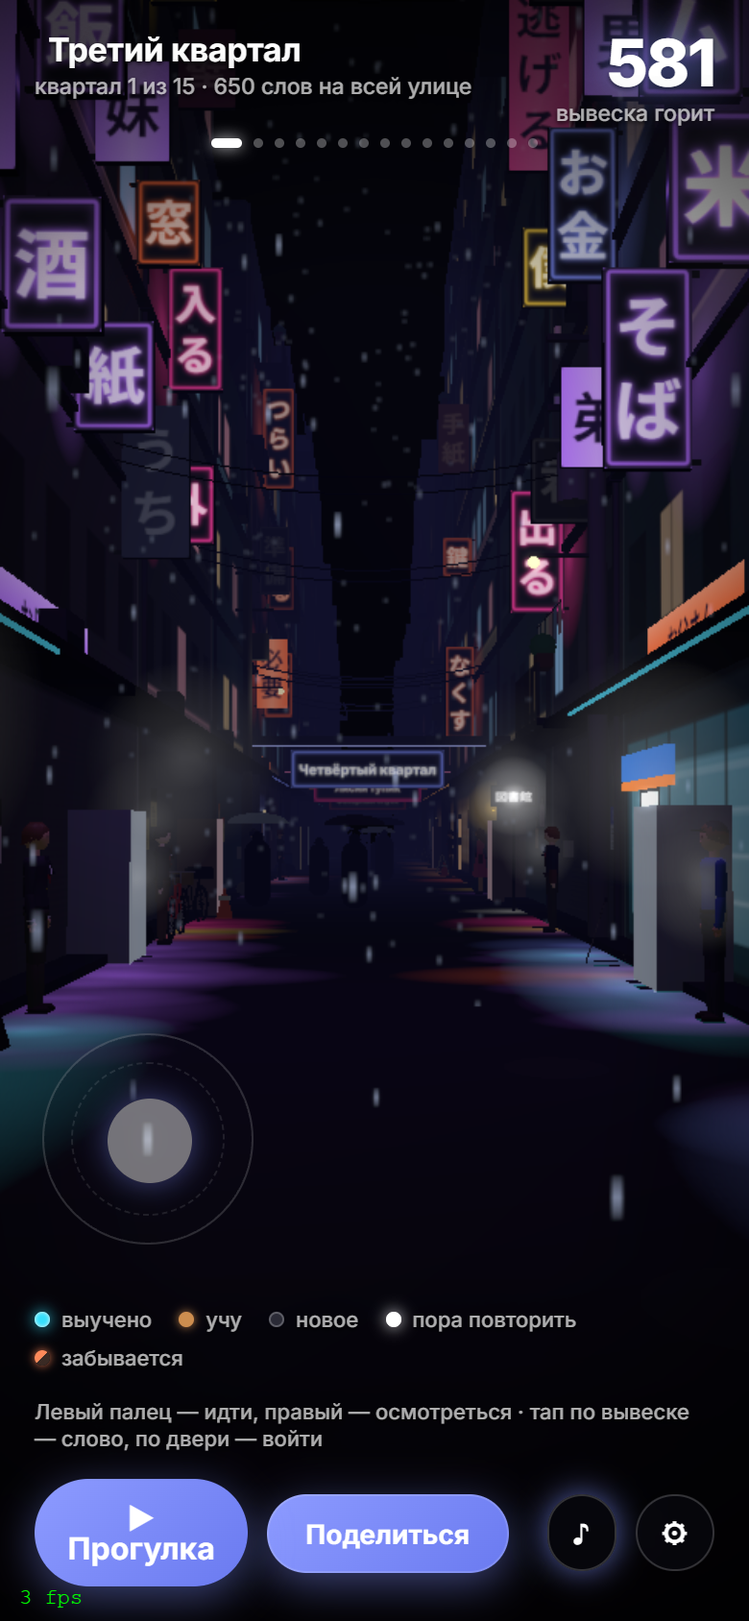
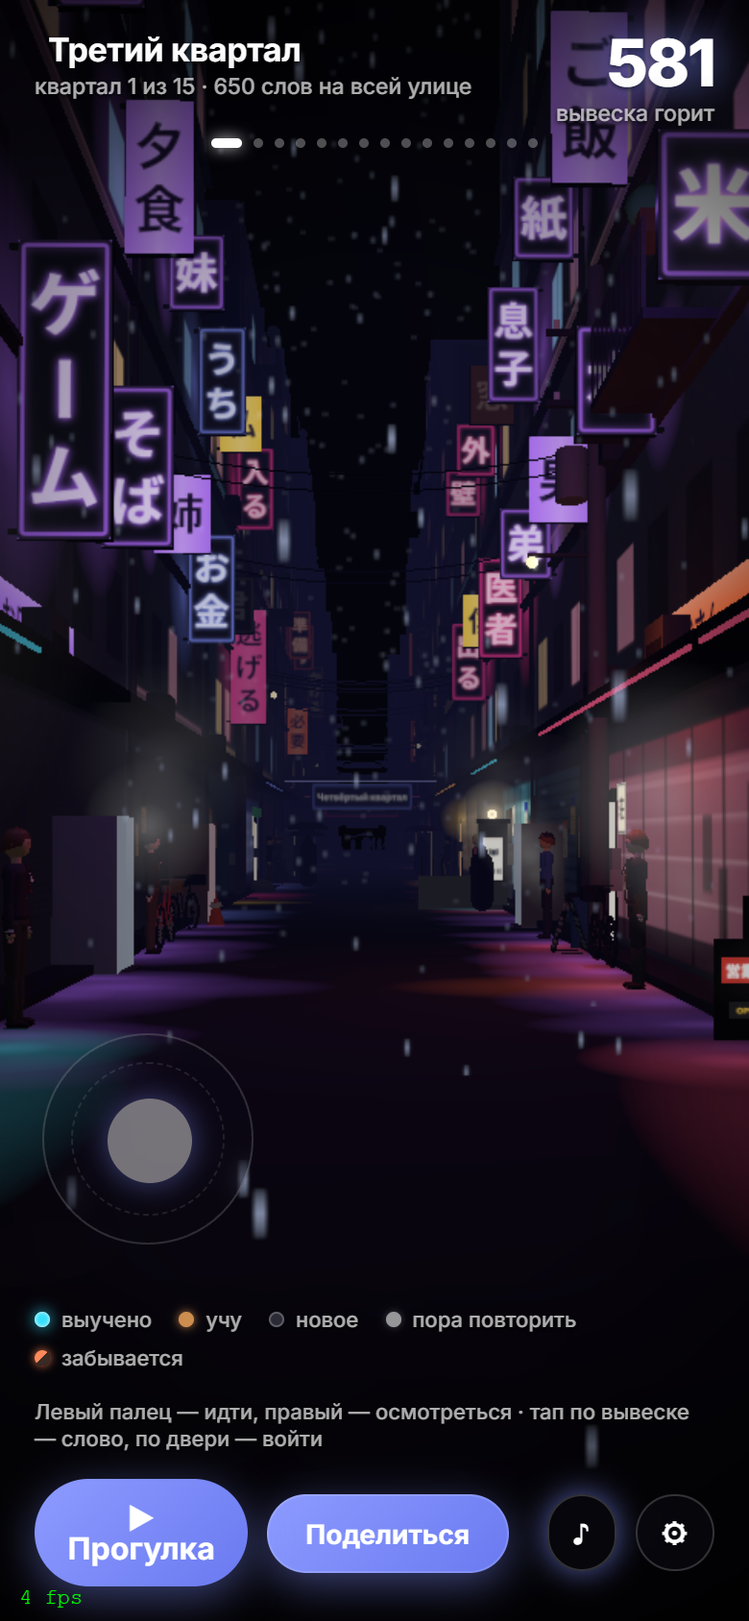
Улица слов на проде: карточка в «Приложениях», слова пользователя, без кнопки прогулки
- /app/street/walk.html: по умолчанию «Мои слова» из этого браузера
  (тот же origin, что и приложение); выгрузка личного словаря грузится
  только при открытии с диска; кнопка ✕ — назад в «Приложения».
- Убраны кнопка «Прогулка», счётчик «вывесок горит» и «прогулка» из названий.
- Карточка «Улица слов» на странице «Приложения» (ru/uk/en), v0.0.631.

diff --git a/street/walk.html b/street/walk.html
@@ -3,7 +3,7 @@
 <head>
     <meta charset="utf-8">
     <meta name="viewport" content="width=device-width, initial-scale=1.0, maximum-scale=1.0, user-scalable=no, viewport-fit=cover">
-    <title>Прогулка — Улица слов · Animei</title>
+    <title>Улица слов · Animei</title>
     <meta name="theme-color" content="#05050a">
     <meta name="apple-mobile-web-app-capable" content="yes">
     <link rel="preconnect" href="https://fonts.googleapis.com">
@@ -64,7 +64,6 @@
         <div class="name"><span id="q-emoji"></span><span id="q-name"></span></div>
         <div class="sub" id="q-sub"></div>
     </div>
-    <div class="count"><b id="lit-n">0</b><span id="lit-l">вывесок горит</span></div>
 </div>
 <div id="dots"></div>
 <div class="hud bottom">
@@ -77,7 +76,7 @@
     </div>
     <div class="hint"><span class="m">Левый палец — идти, правый — осмотреться</span><span class="d">Клик — захватить мышь, Esc — отпустить · WASD или колесо — идти · Shift — бег · M — звук</span> · тап по вывеске — слово, по двери — войти</div>
     <div class="actions">
-        <button class="btn ghost" id="walk">▶ Прогулка</button>
+        <a class="btn ghost" id="home" href="../pages/apps.html" aria-label="Выйти в приложения" hidden>✕</a>
         <button class="btn ghost" id="exit" hidden>← На улицу</button>
         <button class="btn" id="share">Поделиться</button>
         <span class="spacer"></span>
@@ -103,8 +102,8 @@
 </div>
 <div id="toast"></div>
 <div id="fps"></div>
-<div id="nowebgl">Для 3D-прогулки нужен WebGL и доступ к сети (библиотека Three.js грузится с CDN). Откройте плоскую версию: shinjuku.html</div>
-<script src="./words-busyd.js"></script>
+<div id="nowebgl">Для «Улицы слов» нужен WebGL и доступ к сети (библиотека Three.js грузится с CDN). Попробуйте открыть страницу в другом браузере.</div>
+<script>if (location.protocol === 'file:') document.write('<script src="./words-busyd.js"><\/script>');</script>
 <script src="./street-data.js"></script>
 <script type="module">
 /* Улица слов — 3D-прогулка. Three.js, процедурная геометрия, вывески как canvas-текстуры.
@@ -362,7 +361,8 @@ const SET_KEY = 'animei:street';
 function lsSet() { try { return JSON.parse(localStorage.getItem(SET_KEY) || '{}') || {}; } catch (e) { return {}; } }
 function saveSet(p) { try { localStorage.setItem(SET_KEY, JSON.stringify(Object.assign(lsSet(), p))); } catch (e) { /* приватный режим */ } }
 const settings = lsSet();
-let source = params.get('src') || settings.source || 'demo';
+let source = params.get('src') || settings.source || (location.protocol === 'file:' ? 'demo' : 'real');
+if (location.protocol !== 'file:') { const hb = document.getElementById('home'); if (hb) hb.hidden = false; }
 const opts = { rain: settings.rain !== false, reflect: false, bloom: true }; // отражения на улице выключены навсегда
 
 const canvas = document.getElementById('scene');
@@ -3311,7 +3311,7 @@ function enterRoom(door) {
         camera.position.set(ROOM.doorX - 0.5, 1.6, ROOM.d / 2 - 1.1); yaw = tYaw = 0.1;
         // если спавн всё же внутри мебели — отступаем к двери
         for (let tries = 0; tries < 6; tries++) { const c = camera.position; if (!colliders.room.some((b) => c.x > b.x0 && c.x < b.x1 && c.z > b.z0 && c.z < b.z1)) break; camera.position.z += 0.25; camera.position.x += (tries % 2 ? 0.3 : -0.3); } pitch = tPitch = 0.04; vel.set(0, 0, 0); if (gyro) gyro.base = null; audio.setScene("inside");
-        document.getElementById('exit').hidden = false; document.getElementById('walk').hidden = true; autoWalk = false; hideHint();
+        document.getElementById('exit').hidden = false; autoWalk = false; hideHint();
         toast((ROOM_NAMES[door.userData.door.type] || '') + ' · ' + b.q.name);
     });
 }
@@ -3324,7 +3324,7 @@ function exitRoom() {
         scene.fog = new THREE.FogExp2(new THREE.Color(th.fog), th.fogD); scene.background = new THREE.Color(th.sky);
         const d = inside.door.userData.door;
         camera.position.set(d.side * (W2 - 1.3), 1.6, d.z); yaw = tYaw = d.side > 0 ? Math.PI / 2 : -Math.PI / 2; pitch = tPitch = 0; vel.set(0, 0, 0); inside.lastExit = performance.now(); if (gyro) gyro.base = null; audio.setScene(th.id);
-        document.getElementById('exit').hidden = true; document.getElementById('walk').hidden = false; hideHint();
+        document.getElementById('exit').hidden = true; hideHint();
     });
 }
 let fadeT = 0;
@@ -3499,8 +3499,7 @@ canvas.addEventListener('wheel', (e) => { e.preventDefault(); wheelImpulse = cla
 const keys = {};
 window.addEventListener('keydown', (e) => { audio.resume(); keys[e.code] = true; if (e.code === 'Escape') { hideHint(); panel.classList.remove('open'); } if (e.code === 'Space') { e.preventDefault(); toggleWalk(); } if (e.code === 'KeyM') audio.toggle(); });
 window.addEventListener('keyup', (e) => { keys[e.code] = false; });
-function toggleWalk() { autoWalk = !autoWalk; document.getElementById('walk').classList.toggle('on', autoWalk); }
-document.getElementById('walk').addEventListener('click', toggleWalk);
+function toggleWalk() { autoWalk = !autoWalk; }
 // гироскоп: телефон как окно в улицу (на iOS нужно разрешение по тапу)
 async function toggleGyro(btn) {
     if (gyro) { window.removeEventListener('deviceorientation', gyro.fn); gyro = null; btn.classList.remove('on'); saveSet({ gyro: false }); return; }
@@ -3617,8 +3616,7 @@ function updateHud(force) {
     if (!blocks.length) return; // данные ещё грузятся (JLPT по сети)
     const bi = blockAt(camera.position.z);
     const lit = litCount();
-    document.getElementById('lit-n').textContent = lit;
-    document.getElementById('lit-l').textContent = plural(lit, 'вывеска горит', 'вывески горят', 'вывесок горит');
+
     if (bi !== hudBlock || force) {
         hudBlock = bi; const q = blocks[bi].q;
         document.getElementById('q-emoji').textContent = '';
@@ -3639,7 +3637,7 @@ document.getElementById('share').addEventListener('click', async () => {
     g.textBaseline = 'top'; g.shadowColor = 'rgba(0,0,0,0.8)'; g.shadowBlur = 8; g.fillStyle = '#fff'; g.font = '600 16px ' + UI;
     g.fillText(document.getElementById('q-emoji').textContent + ' ' + document.getElementById('q-name').textContent, 18, 22);
     g.font = '700 30px ' + UI; g.textAlign = 'right'; g.fillText(String(litCount()), W - 18, 16);
-    g.font = '500 12px ' + UI; g.fillStyle = 'rgba(255,255,255,0.75)'; g.fillText(document.getElementById('lit-l').textContent, W - 18, 50);
+    g.font = '500 12px ' + UI; g.fillStyle = 'rgba(255,255,255,0.75)'; g.fillText(plural(litCount(), 'вывеска горит', 'вывески горят', 'вывесок горит'), W - 18, 50);
     g.textAlign = 'left'; g.font = '600 13px ' + UI; g.fillStyle = 'rgba(255,255,255,0.7)'; g.fillText('animei.space · Улица слов', 18, H - 34);
     const blob = await new Promise((res) => c.toBlob(res, 'image/png'));
     const file = new File([blob], 'animei-street.png', { type: 'image/png' });

diff --git a/street/walk.js b/street/walk.js
@@ -253,7 +253,8 @@ const SET_KEY = 'animei:street';
 function lsSet() { try { return JSON.parse(localStorage.getItem(SET_KEY) || '{}') || {}; } catch (e) { return {}; } }
 function saveSet(p) { try { localStorage.setItem(SET_KEY, JSON.stringify(Object.assign(lsSet(), p))); } catch (e) { /* приватный режим */ } }
 const settings = lsSet();
-let source = params.get('src') || settings.source || 'demo';
+let source = params.get('src') || settings.source || (location.protocol === 'file:' ? 'demo' : 'real');
+if (location.protocol !== 'file:') { const hb = document.getElementById('home'); if (hb) hb.hidden = false; }
 const opts = { rain: settings.rain !== false, reflect: false, bloom: true }; // отражения на улице выключены навсегда
 
 const canvas = document.getElementById('scene');
@@ -1337,7 +1338,7 @@ function enterRoom(door) {
         camera.position.set(ROOM.doorX - 0.5, 1.6, ROOM.d / 2 - 1.1); yaw = tYaw = 0.1;
         // если спавн всё же внутри мебели — отступаем к двери
         for (let tries = 0; tries < 6; tries++) { const c = camera.position; if (!colliders.room.some((b) => c.x > b.x0 && c.x < b.x1 && c.z > b.z0 && c.z < b.z1)) break; camera.position.z += 0.25; camera.position.x += (tries % 2 ? 0.3 : -0.3); } pitch = tPitch = 0.04; vel.set(0, 0, 0); if (gyro) gyro.base = null; audio.setScene("inside");
-        document.getElementById('exit').hidden = false; document.getElementById('walk').hidden = true; autoWalk = false; hideHint();
+        document.getElementById('exit').hidden = false; autoWalk = false; hideHint();
         toast((ROOM_NAMES[door.userData.door.type] || '') + ' · ' + b.q.name);
     });
 }
@@ -1350,7 +1351,7 @@ function exitRoom() {
         scene.fog = new THREE.FogExp2(new THREE.Color(th.fog), th.fogD); scene.background = new THREE.Color(th.sky);
         const d = inside.door.userData.door;
         camera.position.set(d.side * (W2 - 1.3), 1.6, d.z); yaw = tYaw = d.side > 0 ? Math.PI / 2 : -Math.PI / 2; pitch = tPitch = 0; vel.set(0, 0, 0); inside.lastExit = performance.now(); if (gyro) gyro.base = null; audio.setScene(th.id);
-        document.getElementById('exit').hidden = true; document.getElementById('walk').hidden = false; hideHint();
+        document.getElementById('exit').hidden = true; hideHint();
     });
 }
 let fadeT = 0;
@@ -1525,8 +1526,7 @@ canvas.addEventListener('wheel', (e) => { e.preventDefault(); wheelImpulse = cla
 const keys = {};
 window.addEventListener('keydown', (e) => { audio.resume(); keys[e.code] = true; if (e.code === 'Escape') { hideHint(); panel.classList.remove('open'); } if (e.code === 'Space') { e.preventDefault(); toggleWalk(); } if (e.code === 'KeyM') audio.toggle(); });
 window.addEventListener('keyup', (e) => { keys[e.code] = false; });
-function toggleWalk() { autoWalk = !autoWalk; document.getElementById('walk').classList.toggle('on', autoWalk); }
-document.getElementById('walk').addEventListener('click', toggleWalk);
+function toggleWalk() { autoWalk = !autoWalk; }
 // гироскоп: телефон как окно в улицу (на iOS нужно разрешение по тапу)
 async function toggleGyro(btn) {
     if (gyro) { window.removeEventListener('deviceorientation', gyro.fn); gyro = null; btn.classList.remove('on'); saveSet({ gyro: false }); return; }
@@ -1643,8 +1643,7 @@ function updateHud(force) {
     if (!blocks.length) return; // данные ещё грузятся (JLPT по сети)
     const bi = blockAt(camera.position.z);
     const lit = litCount();
-    document.getElementById('lit-n').textContent = lit;
-    document.getElementById('lit-l').textContent = plural(lit, 'вывеска горит', 'вывески горят', 'вывесок горит');
+
     if (bi !== hudBlock || force) {
         hudBlock = bi; const q = blocks[bi].q;
         document.getElementById('q-emoji').textContent = '';
@@ -1665,7 +1664,7 @@ document.getElementById('share').addEventListener('click', async () => {
     g.textBaseline = 'top'; g.shadowColor = 'rgba(0,0,0,0.8)'; g.shadowBlur = 8; g.fillStyle = '#fff'; g.font = '600 16px ' + UI;
     g.fillText(document.getElementById('q-emoji').textContent + ' ' + document.getElementById('q-name').textContent, 18, 22);
     g.font = '700 30px ' + UI; g.textAlign = 'right'; g.fillText(String(litCount()), W - 18, 16);
-    g.font = '500 12px ' + UI; g.fillStyle = 'rgba(255,255,255,0.75)'; g.fillText(document.getElementById('lit-l').textContent, W - 18, 50);
+    g.font = '500 12px ' + UI; g.fillStyle = 'rgba(255,255,255,0.75)'; g.fillText(plural(litCount(), 'вывеска горит', 'вывески горят', 'вывесок горит'), W - 18, 50);
     g.textAlign = 'left'; g.font = '600 13px ' + UI; g.fillStyle = 'rgba(255,255,255,0.7)'; g.fillText('animei.space · Улица слов', 18, H - 34);
     const blob = await new Promise((res) => c.toBlob(res, 'image/png'));
     const file = new File([blob], 'animei-street.png', { type: 'image/png' });

diff --git a/street/walk.tpl.html b/street/walk.tpl.html
@@ -3,7 +3,7 @@
 <head>
     <meta charset="utf-8">
     <meta name="viewport" content="width=device-width, initial-scale=1.0, maximum-scale=1.0, user-scalable=no, viewport-fit=cover">
-    <title>Прогулка — Улица слов · Animei</title>
+    <title>Улица слов · Animei</title>
     <meta name="theme-color" content="#05050a">
     <meta name="apple-mobile-web-app-capable" content="yes">
     <link rel="preconnect" href="https://fonts.googleapis.com">
@@ -64,7 +64,6 @@
         <div class="name"><span id="q-emoji"></span><span id="q-name"></span></div>
         <div class="sub" id="q-sub"></div>
     </div>
-    <div class="count"><b id="lit-n">0</b><span id="lit-l">вывесок горит</span></div>
 </div>
 <div id="dots"></div>
 <div class="hud bottom">
@@ -77,7 +76,7 @@
     </div>
     <div class="hint"><span class="m">Левый палец — идти, правый — осмотреться</span><span class="d">Клик — захватить мышь, Esc — отпустить · WASD или колесо — идти · Shift — бег · M — звук</span> · тап по вывеске — слово, по двери — войти</div>
     <div class="actions">
-        <button class="btn ghost" id="walk">▶ Прогулка</button>
+        <a class="btn ghost" id="home" href="../pages/apps.html" aria-label="Выйти в приложения" hidden>✕</a>
         <button class="btn ghost" id="exit" hidden>← На улицу</button>
         <button class="btn" id="share">Поделиться</button>
         <span class="spacer"></span>
@@ -103,8 +102,8 @@
 </div>
 <div id="toast"></div>
 <div id="fps"></div>
-<div id="nowebgl">Для 3D-прогулки нужен WebGL и доступ к сети (библиотека Three.js грузится с CDN). Откройте плоскую версию: shinjuku.html</div>
-<script src="./words-busyd.js"></script>
+<div id="nowebgl">Для «Улицы слов» нужен WebGL и доступ к сети (библиотека Three.js грузится с CDN). Попробуйте открыть страницу в другом браузере.</div>
+<script>if (location.protocol === 'file:') document.write('<script src="./words-busyd.js"><\/script>');</script>
 <script src="./street-data.js"></script>
 <script type="module">
 /*__WALK_JS__*/

diff --git a/pages/apps.html b/pages/apps.html
@@ -97,6 +97,17 @@
                 <p class="app-card__desc" data-i18n="apps.kanji.desc">Пишите иероглифы из своих колод пальцем: порядок штрихов, обводка, письмо по памяти и повторения.</p>
                 <span class="app-card__chev">›</span>
             </a>
+            <a class="app-card" href="../street/walk.html">
+                <div class="app-card__icon">街</div>
+                <div class="app-card__head">
+                    <div>
+                        <div class="app-card__name"><span data-i18n="apps.street.name">Улица слов</span></div>
+                        <div class="app-card__tag" data-i18n="apps.street.tag">3D · ваш словарь вывесками</div>
+                    </div>
+                </div>
+                <p class="app-card__desc" data-i18n="apps.street.desc">Ночной японский переулок, где каждое ваше слово — вывеска: выученные горят, забытые мигают. Заходите в идзакаи, кафе и квартиры — там живут люди и вещи из словаря.</p>
+                <span class="app-card__chev">›</span>
+            </a>
         </div>
         <p class="apps__hint" data-i18n="apps.installHint">Каждое можно добавить на экран «Домой» как отдельное приложение.</p>
     </main>

diff --git a/js/i18n/uk.js b/js/i18n/uk.js
@@ -77,6 +77,9 @@ window.I18N_UK = {
         'apps.kanji.tag': 'Письмо · ієрогліфи з ваших колод',
         'apps.news.desc': 'Японські новини на три рівні складності: читайте простий варіант і переходьте до оригіналу. Слова клікаються, як у плеєрі.',
         'apps.kanji.desc': 'Пишіть ієрогліфи зі своїх колод пальцем: порядок штрихів, обведення, письмо з пам’яті та повторення.',
+        'apps.street.name': 'Вулиця слів',
+        'apps.street.tag': '3D · ваш словник вивісками',
+        'apps.street.desc': 'Нічний японський провулок, де кожне ваше слово — вивіска: вивчені світяться, забуті блимають. Заходьте в ідзакаї, кафе й квартири — там живуть люди й речі зі словника.',
         'apps.installHint': 'Кожен можна додати на екран «Додому» як окремий застосунок.',
         'nav.kanji': 'Sumi',
         'news.title': 'Сьогодні',

diff --git a/js/i18n.js b/js/i18n.js
@@ -81,6 +81,9 @@ const I18N = {
         'apps.kanji.tag': 'Письмо · иероглифы из ваших колод',
         'apps.news.desc': 'Японские новости на три уровня сложности: читайте простой вариант и переходите к оригиналу. Слова кликаются, как в плеере.',
         'apps.kanji.desc': 'Пишите иероглифы из своих колод пальцем: порядок штрихов, обводка, письмо по памяти и повторения.',
+        'apps.street.name': 'Улица слов',
+        'apps.street.tag': '3D · ваш словарь вывесками',
+        'apps.street.desc': 'Ночной японский переулок, где каждое ваше слово — вывеска: выученные горят, забытые мигают. Заходите в идзакаи, кафе и квартиры — там живут люди и вещи из словаря.',
         'apps.installHint': 'Каждое можно добавить на экран «Домой» как отдельное приложение.',
         'nav.kanji': 'Sumi',
         'news.title': 'Сегодня',

diff --git a/js/i18n/en.js b/js/i18n/en.js
@@ -77,6 +77,9 @@ window.I18N_EN = {
         'apps.kanji.tag': 'Writing · kanji from your decks',
         'apps.news.desc': 'Japanese news at three difficulty levels: read the easy version and move up to the original. Words are clickable, like in the player.',
         'apps.kanji.desc': 'Write kanji from your decks with your finger: stroke order, tracing, writing from memory and reviews.',
+        'apps.street.name': 'Street of Words',
+        'apps.street.tag': '3D · your vocabulary as signs',
+        'apps.street.desc': 'A night-time Japanese alley where every word you study is a sign: learned ones glow, forgotten ones flicker. Step into izakayas, cafés and apartments full of people and things from your vocabulary.',
         'apps.installHint': 'Each one can be added to your home screen as a separate app.',
         'nav.kanji': 'Sumi',
         'news.title': 'Today',

diff --git a/service-worker.js b/service-worker.js
@@ -1,6 +1,6 @@
 // Пути относительные — SW живёт в /app/, поэтому './' указывает на /app/.
 // ВАЖНО: меняй номер версии при каждом деплое — иначе старый кеш не сбросится.
-const CACHE_NAME = 'animei-cache-v0.0.630';
+const CACHE_NAME = 'animei-cache-v0.0.631';
 // Полный список генерит deploy/build-pwa.mjs из содержимого dist (страницы,
 // css, js, libs; скрытая админка исключена) и подставляет сюда при сборке.
 // В исходнике — только app-shell: без сборки SW тоже работает, офлайн беднее.

diff --git a/js/app.js b/js/app.js
@@ -1,7 +1,7 @@
 // Версия приложения — единый источник. Бампится вместе с CACHE_NAME в
 // service-worker.js при каждом деплое (последнее число). Формат v0.0.N —
 // показывается в футере сайдбара, чтобы визуально валидировать, что деплой доехал.
-const APP_VERSION = 'v0.0.630';
+const APP_VERSION = 'v0.0.631';
 
 // Путь от корня приложения (/app/), одинаково работающий с главной и с
 // подстраниц /app/pages/*. Относительный путь, собранный без этой поправки,

diff --git a/street/street.css b/street/street.css
@@ -72,3 +72,4 @@ body { position: fixed; inset: 0; width: 100%; height: 100svh; overscroll-behavi
 .scrim { position: absolute; left: 0; right: 0; pointer-events: none; }
 .scrim.top { top: 0; height: 150px; background: linear-gradient(rgba(0,0,0,0.55), rgba(0,0,0,0)); }
 .scrim.bottom { bottom: 0; height: 190px; background: linear-gradient(rgba(0,0,0,0), rgba(0,0,0,0.6)); }
+a.btn:not([hidden]) { text-decoration: none; display: inline-flex; align-items: center; justify-content: center; }
